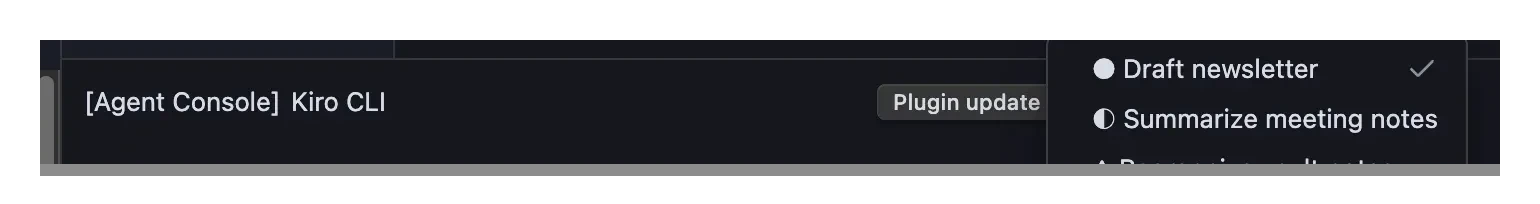
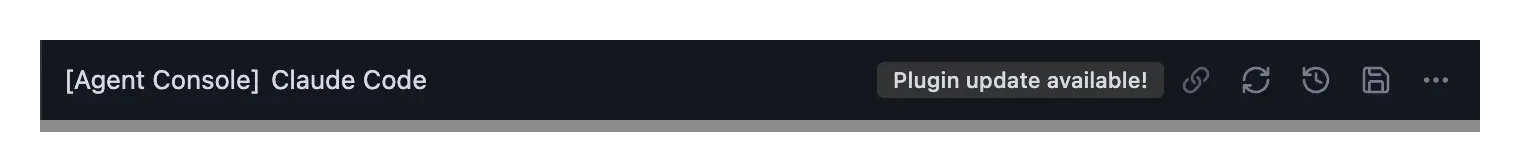
docs: embed the v2.5.0 shots; recapture switch-agent and update-pill
Embed the nine new images next to the text that describes each surface
(index, editing, mcp-tools, quick-prompts, session-history,
tabbed-sessions) and set their docPage.

switch-agent: recaptured in window mode (native menus off, crop is the
chat header plus the More menu). The old shot predated OpenCode and the
Lucide tab icons.

update-pill: a DOM menu left open by the previous shot overlapped the
pill. The orchestrator now closes any leftover .menu at the start of
every capture (test red first). cropPadding 0 drops the sidebar
scrollbar strip on the left.

diff --git a/tools/screenshots/lib/__tests__/orchestrator.test.ts b/tools/screenshots/lib/__tests__/orchestrator.test.ts
@@ -2943,6 +2943,26 @@ describe("captureEntry — modal hygiene (leftover-modal leak fix)", () => {
 	const MODAL_CLOSE = (e: string) =>
 		e.includes(".modal-container") && e.includes(".modal-close-button");
 
+	// A DOM .menu opened by an earlier shot (tab-status-dropdown with native
+	// menus off) is app state that survives the plugin reload, and it was
+	// captured over the next shot's update pill.
+	it("closes any leftover DOM menu at the start of every capture", async () => {
+		const deps = makeDeps();
+
+		await captureEntry(makeEntry(), deps);
+
+		const evalMock = deps.cdp.evaluate as ReturnType<typeof vi.fn>;
+		const evals = evalMock.mock.calls.map((c: unknown[]) => c[0] as string);
+		const menuIdx = evals.findIndex(
+			(e) =>
+				e.includes('querySelectorAll(".menu")') && e.includes(".remove()"),
+		);
+		expect(menuIdx).toBeGreaterThanOrEqual(0);
+		const shotOrder = (deps.cdp.screenshot as ReturnType<typeof vi.fn>).mock
+			.invocationCallOrder[0];
+		expect(evalMock.mock.invocationCallOrder[menuIdx]).toBeLessThan(shotOrder);
+	});
+
 	it("dismisses any leftover modal at the start of every capture", async () => {
 		const deps = makeDeps();
 		const entry = makeEntry();

diff --git a/tools/screenshots/lib/orchestrator.ts b/tools/screenshots/lib/orchestrator.ts
@@ -489,6 +489,12 @@ export async function captureEntry(
 		await deps.cdp.evaluate(
 			`(() => { let n = 0; document.querySelectorAll(".modal-container").forEach((m) => { const b = m.querySelector(".modal-close-button"); if (b) { b.click(); } else { m.remove(); } n++; }); return n; })()`,
 		);
+		// 0.6 Close any DOM menu a prior shot left open (a nativeMenus-off
+		// dropdown survives the plugin reload, like a modal). Shots that need a
+		// menu open their own later in the flow.
+		await deps.cdp.evaluate(
+			`(() => { const ms = document.querySelectorAll(".menu"); ms.forEach((m) => m.remove()); return ms.length; })()`,
+		);
 
 		// 1. Mobile emulation (before any UI driving)
 		if (entry.mobile) {

diff --git a/docs/usage/tabbed-sessions.md b/docs/usage/tabbed-sessions.md
@@ -51,17 +51,29 @@ A `˅` chevron beside it opens a dropdown listing **every** tab — including an
 
 See which chat needs you without opening a list. New installs start with vertical tabs, icons only. If you've used Agent Console before, your tabs stay in the top bar until you choose **Vertical** in **Settings → Tabs → Tab display**. The tabs move from the top into a narrow column on the right edge of the chat view. Each tab shows only its [status icon](#the-tab-bar), so in a narrow sidebar you can see 20 tabs or more at a glance. Choose **Horizontal** to go back to the top bar. The change takes effect at once and doesn't disturb your open chats.
 
+<p align="center">
+  <img src="/images/tab-rail-icons.webp" alt="Agent Console with tabs in a slim column on the right, each tab shown only as its status icon" />
+</p>
+
 - **See a tab's name** – hover a tab. The first one takes a moment; after that, every tab you pass shows its name and status straight away. Press `Esc` to hide it.
 - **Show names all the time** – drag the column's inner edge to make it wider. From about twice its narrow width it shows names, cut off with "…" when they're long; let go below that and it snaps back to icons only. Double-click the edge to switch between icons only and your last width. Your width is kept across restarts.
 - **Close a tab in one click** – when the column is wide enough to show names (about three times its narrow width), hover a tab and click the × that appears at its right end. The × shows only while you hover, so a resting column shows just status and names. In the narrow, icons-only column there's no × – middle-click or right-click instead, or widen the column.
 - **Everything else works the same** – click a tab to switch, middle-click to close it, and right-click for Rename, Rename with AI and Close (on the column, "Close to the right" reads "Close below"). `+` and `˅` sit at the top of the column.
 - **Keyboard** – `Tab` to the column, then `↑` / `↓` to move between tabs and `Enter` to switch. Press `Delete` (or `Backspace`) to close the tab you're on; focus moves to the tab that takes its place. Holding the key closes just one tab. You can also press the context-menu key or `Shift+F10` and choose **Close**. The resize edge is a `Tab` stop too: `←` makes the column wider, `→` narrower, and `Enter` switches between icons only and names.
 
+<p align="center">
+  <img src="/images/tab-rail-names.webp" alt="Agent Console tabs in a widened column on the right, each with its status icon and name" />
+</p>
+
 Reordering tabs by dragging works in the top bar only.
 
 ### What's new after an update
 
 When you update Agent Console, a small **What's new** card appears once at the top of the chat view – not once per tab. For this release it offers **Try vertical tabs**, which moves your tabs into the column straight away, and **Switch back to top tabs** to undo it. The button always matches your current setting, even after a restart. Click **×** to dismiss the card; it stays gone in every chat view until the next update with something new. To see it again, run **Show what's new** from the command palette. New installs start on vertical tabs already, so they don't get the card.
+
+<p align="center">
+  <img src="/images/whats-new-card.webp" alt="Agent Console chat view with a What's new card above the chat offering Try vertical tabs and Release notes" />
+</p>
 
 ## Creating tabs
 
@@ -263,6 +275,10 @@ Switching the agent for an existing tab also waits for interaction. It rebinds t
 **Keep lots of tabs open without slowing your computer down.** A tab you haven't used for an hour, while you work in another tab, goes to sleep: its agent stops to free memory. An agent with its tools can use several hundred megabytes, so a long day with many tabs adds up.
 
 A sleeping tab shows a small moon instead of its usual dot. Hover it to see "Asleep to save memory." Tabs that come back after you restart Obsidian or reopen the panel, and chats you reopen (a closed tab, or a chat restored from session history), show the moon too. That includes the tab you're looking at, because its agent hasn't picked the conversation back up yet. The conversation stays on screen. Start typing or send a message and the tab wakes up in the same conversation, after a short "connecting" moment. Picking a model or mode on a sleeping tab wakes it first, then applies your choice.
+
+<p align="center">
+  <img src="/images/sleeping-tab.webp" alt="Tab bar with one tab showing a moon icon, meaning it is asleep to save memory" />
+</p>
 
 A tab never goes to sleep while it's the tab you're looking at, or while something is going on in it: a reply streaming, a permission question, a queued message, a running terminal, an AI rename, or text in the message box.
 

diff --git a/docs/usage/session-history.md b/docs/usage/session-history.md
@@ -91,6 +91,10 @@ Sessions are saved in two places:
 
 Your history keeps your 100 most recent chats by default. Change this under **Settings → Sessions → Max saved chats**: pick 25, 50, 100, 250, 500, or **Unlimited**.
 
+<p align="center">
+  <img src="/images/settings-max-saved-chats.webp" alt="Agent Console Sessions settings with the Max saved chats dropdown set to 100" />
+</p>
+
 When you go over the limit, the chats you used least recently move to your trash, so you can still get them back. Agent Console uses your computer's trash, or the vault's `.trash` folder if that's turned off. A chat that's open in a tab, or a tab you closed recently and can still reopen, is never removed, even if that leaves you a little over the limit. The first time this happens after Obsidian starts, a short notice tells you.
 
 If you lower the limit and some chats would go, Agent Console asks first and tells you how many. Cancel keeps everything as it was.

diff --git a/docs/usage/quick-prompts.md b/docs/usage/quick-prompts.md
@@ -148,6 +148,10 @@ The quickest way to get a prompt's link is to right-click its chip and pick **Co
 - **Links can't flood you.** Only one link opens every 2 seconds, and the same link clicked again within 10 seconds is ignored.
 - **Mistakes do nothing.** An unknown prompt id, an unknown agent, or an empty value shows a notice and opens nothing.
 
+<p align="center">
+  <img src="/images/quick-prompt-uri-banner.webp" alt="Agent Console tab opened by a link, with the Opened by link banner naming the agent and mode, and the prompt staged" />
+</p>
+
 Two properties on the prompt note control how links can use it:
 
 - **`uri send`** (checkbox) — lets a link send the prompt straight away, but only when the link names the prompt and nothing else. Add any `selection`, `url`, `title`, `agent` or `mode` and it waits for you again. Use it for fixed kickoffs like "start my daily review".

diff --git a/docs/usage/editing.md b/docs/usage/editing.md
@@ -31,6 +31,10 @@ On the Kiro CLI V3 engine, **Always allow** and **Always deny** ask one more que
 - **Remember for:** **This vault** (the default) keeps the rule for new chats in this vault too. **This chat only** forgets it when the chat ends. Kiro saves vault rules in its own settings, not in your vault.
 - **Applies to** (shell commands only): **this exact command** (the default), or every command that starts the same way, such as `npm *`.
 
+<p align="center">
+  <img src="/images/kiro-v3-permission-scope.webp" alt="Permission step with This vault and This chat only, and the exact command or a pattern such as npm *" />
+</p>
+
 Click the button again to confirm, or **Back** to choose differently. To allow a command in every workspace, add a rule to Kiro's own permission settings.
 
 ### Auto-Allow Permissions

diff --git a/docs/usage/index.md b/docs/usage/index.md
@@ -55,6 +55,10 @@ The header names the agent you chose. If the session ends up running a different
 - **~~Auto SA~~ kiro_default** – the agent you chose couldn't load, so the agent's default is running instead. Hover the header for details.
 - **Auto SA › trd-pro** – you switched to another mode from the composer. For Kiro CLI, a mode is one of your Kiro agents.
 
+<p align="center">
+  <img src="/images/kiro-v3-header-fallback.webp" alt="Chat header with the chosen agent name struck through, followed by the agent that is running instead" />
+</p>
+
 This is a one-time change for that view only.
 
 <p align="center">

diff --git a/docs/usage/mcp-tools.md b/docs/usage/mcp-tools.md
@@ -113,3 +113,7 @@ server that failed to start, with Kiro's reason under **Details** (for
 example, a command that isn't installed). The note updates by itself and
 goes away when the servers connect. **Dismiss** hides it until a different
 server fails.
+
+<p align="center">
+  <img src="/images/kiro-v3-mcp-failure-notice.webp" alt="Note at the top of a chat listing MCP servers that didn't connect, with each server's reason under Details" />
+</p>
